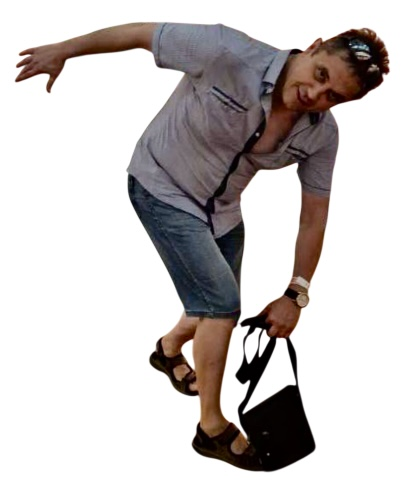
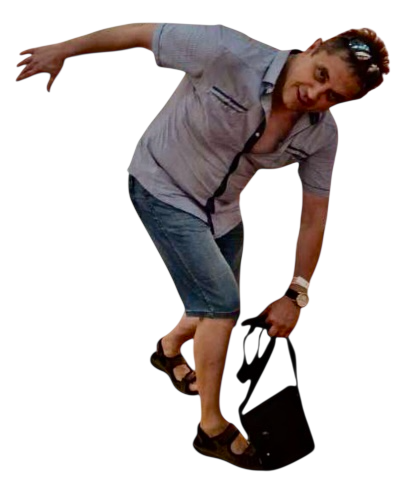
почти все

diff --git a/3ISIP223_Nikolaeva_WPF/Pages/2MainGamePage.xaml b/3ISIP223_Nikolaeva_WPF/Pages/2MainGamePage.xaml
@@ -49,11 +49,11 @@
         <TextBlock x:Name="TxtBlcFloor" Text="Этаж: " Grid.Column="0" Grid.Row="1" FontSize="28"/>
         
         <!--сундук-->
-        <Image x:Name="ImgChest" Grid.Column="1" Grid.Row="1" Grid.RowSpan="2" HorizontalAlignment="Center" 
-               VerticalAlignment="Center" Width="250" Visibility="Hidden"/>
+        <Image x:Name="ImgChest" Grid.Column="1" Grid.Row="1" Grid.RowSpan="2" Source="/Images/Other/chest.png" HorizontalAlignment="Center" 
+               VerticalAlignment="Bottom" Width="350" Visibility="Hidden"/>
         <!--картинка лута из сундука-->
         <Image x:Name="ImgLutfromChest" Grid.Column="1" Grid.Row="1" Grid.RowSpan="2" HorizontalAlignment="Center"
-               VerticalAlignment="Center"  Width="100"/>
+               VerticalAlignment="Bottom"  Width="200"/>
 
         
         <!--мобы и логи-->
@@ -67,10 +67,10 @@
                 ScrollViewer.HorizontalScrollBarVisibility="Auto" ScrollViewer.VerticalScrollBarVisibility="Disabled" d:ItemsSource="{d:SampleData ItemCount=5}" >
                 <ListBox.ItemTemplate>
                     <DataTemplate>
-                        <StackPanel Orientation="Horizontal">
+                        <StackPanel Orientation="Vertical">
                             <StackPanel Orientation="Horizontal">
                                 <Image Source="/Images/Icons/IconHP.png" Width="30"/>
-                                <TextBlock>
+                                <TextBlock FontSize="20">
                                     <TextBlock.Text>
                                         <MultiBinding StringFormat="{}{0}/{1} ХП">
                                             <Binding Path="MaxHP"/>
@@ -79,16 +79,15 @@
                                     </TextBlock.Text>
                                 </TextBlock>
                             </StackPanel>
-                            
                             <StackPanel Orientation="Horizontal">
                                 <Image Source="/Images/Icons/IconATK.png" Width="30"/>
-                                <TextBlock Text="{Binding Attack}"/>
+                                <TextBlock Text="{Binding Attack}" FontSize="20"/>
                             </StackPanel>
                             <StackPanel Orientation="Horizontal">
                                 <Image Source="/Images/Icons/IconDEF.png" Width="30"/>
-                                <TextBlock Text="{Binding Defense}"/>
+                                <TextBlock Text="{Binding Defense}" FontSize="20"/>
                             </StackPanel>
-                            <Image x:Name="ImageCurrentMob" Source="{Binding DefaultImage}" Height="200"/>
+                            <Image x:Name="ImageCurrentMob" Source="{Binding DefaultImage}" Height="350"/>
                         </StackPanel>
                     </DataTemplate>
                 </ListBox.ItemTemplate>

diff --git a/3ISIP223_Nikolaeva_WPF/DictionaryStyle.xaml b/3ISIP223_Nikolaeva_WPF/DictionaryStyle.xaml
@@ -5,12 +5,23 @@
     <Style TargetType="TextBlock">
         <Setter Property="FontFamily" Value="TT_Skip-E 85W"/>
         <Setter Property="Foreground" Value="White"/>
-        
+        <Setter Property="Effect">
+            <Setter.Value>
+                <DropShadowEffect 
+                    Color="Black" 
+                    BlurRadius="2" 
+                    ShadowDepth="3" 
+                    Opacity="0.9" 
+                    Direction="315"/>
+            </Setter.Value>
+        </Setter>
     </Style>
 
     <Style TargetType="ToolTip">
         <Setter Property="Background" Value="#474747"/>
         <Setter Property="FontSize" Value="20"/>
     </Style>
-    
+
+
+
 </ResourceDictionary>

diff --git a/3ISIP223_Nikolaeva_WPF/Pages/2MainGamePage.xaml.cs b/3ISIP223_Nikolaeva_WPF/Pages/2MainGamePage.xaml.cs
@@ -22,6 +22,7 @@ namespace _3ISIP223_Nikolaeva_WPF.Pages
     public partial class _2MainGamePage : Page
     {
         public Game _game;
+        public List<BitmapImage> backgroungimages;
         private bool _waitingForTarget = false;
 
         public _2MainGamePage()
@@ -35,7 +36,7 @@ namespace _3ISIP223_Nikolaeva_WPF.Pages
 
         private void LoadPicture()
         {
-            List<BitmapImage> backgroungimages = new List<BitmapImage>()
+            backgroungimages = new List<BitmapImage>()
             {
                 new BitmapImage(new Uri("pack://application:,,,/Images/Backgrounds/Loca1.jpeg")),
                 new BitmapImage(new Uri("pack://application:,,,/Images/Backgrounds/Loca2.png")),
@@ -43,7 +44,13 @@ namespace _3ISIP223_Nikolaeva_WPF.Pages
                 new BitmapImage(new Uri("pack://application:,,,/Images/Backgrounds/Loca4.jpg")),
                 new BitmapImage(new Uri("pack://application:,,,/Images/Backgrounds/Loca5.jpg"))
             };
+            UpdateBack();
 
+
+        }
+
+        public void UpdateBack()
+        {
             int n = Raaandom.GetRandomInt(0, backgroungimages.Count - 1);
             ImagBr.ImageSource = backgroungimages[n];
         }
@@ -78,6 +85,11 @@ namespace _3ISIP223_Nikolaeva_WPF.Pages
             TxtBlcLogg.Text = message;
         }
 
+        public void SetEnemyImage(string image)
+        {
+
+        }
+
         public void ShowEnemies(List<Enemy> enemies)
         {
             ListMobs.ItemsSource = enemies;
@@ -103,7 +115,7 @@ namespace _3ISIP223_Nikolaeva_WPF.Pages
         {
             _waitingForTarget = true;
             TxtBlcHint.Visibility = Visibility.Visible;
-            TxtBlcHint.Text = "👉 КЛИКНИТЕ ПО ВРАГУ ДЛЯ АТАКИ 👈";
+            TxtBlcHint.Text = "КЛИКНИТЕ ПО ВРАГУ ДЛЯ АТАКИ";
         }
 
         public void CancelTargetSelection()
@@ -132,6 +144,7 @@ namespace _3ISIP223_Nikolaeva_WPF.Pages
                 _game.OnEnemySelected(selected);
                 ListMobs.SelectedItem = null; // Снимаем выделение
             }
+            ListMobs.SelectedIndex = -1;
         }
 
         public class Game
@@ -154,26 +167,26 @@ namespace _3ISIP223_Nikolaeva_WPF.Pages
 
             private List<Item> weapons = new List<Item>
             {
-                new Item("Лампа", 10, 0, "/Images/Weapons/Chashka.png"),
-                new Item("Волчья погибель", 15, 0, "/Images/Weapons/VolchyaPogibel.png"),
-                new Item("Аква Симулякрум", 17, 0, "/Images/Weapons/AquaSimulyacrum.png"),
-                new Item("Нефритовый омут", 15, 3, "/Images/Weapons/Omut.png"),
-                new Item("Рассекающий туман", 20, 10, "/Images/Weapons/RassekaushiTuman.png")
+                new Item("Лампа", 30, 0, "/Images/Weapons/Chashka.png"),
+                new Item("Волчья погибель", 35, 0, "/Images/Weapons/VolchyaPogibel.png"),
+                new Item("Аква Симулякрум", 39, 0, "/Images/Weapons/AquaSimulyacrum.png"),
+                new Item("Нефритовый омут", 44, 3, "/Images/Weapons/Omut.png"),
+                new Item("Рассекающий туман", 50, 10, "/Images/Weapons/RassekaushiTuman.png")
             };
 
             private List<Item> armors = new List<Item>
             {
-                new Item("Кольчуга", 0, 15, "/Images/Armors/kolchuga.png"),
-                new Item("Железная броня", 7, 19, "/Images/Armors/jeleznaya.png"),
-                new Item("Золотая броня", 5, 15, "/Images/Armors/zolotaya.png"),
-                new Item("Алмазная броня", 5, 20, "/Images/Armors/almaznaya.png")
+                new Item("Кольчуга", 0, 30, "/Images/Armors/kolchuga.png"),
+                new Item("Железная броня", 7, 33, "/Images/Armors/jeleznaya.png"),
+                new Item("Золотая броня", 5, 40, "/Images/Armors/zolotaya.png"),
+                new Item("Алмазная броня", 5, 45, "/Images/Armors/almaznaya.png")
             };
 
             public Game(_2MainGamePage page)
             {
                 _page = page;
-                CurrentWeapon = new Item("Дубина переговоров", 7, 0, "/Images/Weapons/dubina.png");
-                CurrentArmor = new Item("Кожанная броня", 0, 1, "/Images/Armors/kojanaya.png");
+                CurrentWeapon = new Item("Дубина переговоров", 20, 0, "/Images/Weapons/dubina.png");
+                CurrentArmor = new Item("Кожанная броня", 0, 20, "/Images/Armors/kojanaya.png");
                 _page.UpdateWeaponImage(CurrentWeapon);
                 _page.UpdateArmorImage(CurrentArmor);
                 _page.UpdateHealth(MaxPlayerHP, PlayerHP);
@@ -184,7 +197,7 @@ namespace _3ISIP223_Nikolaeva_WPF.Pages
                 await NextTurn();
             }
 
-            private async System.Threading.Tasks.Task NextTurn()
+            private async Task NextTurn()
             {
                 if (PlayerHP <= 0)
                 {
@@ -194,6 +207,8 @@ namespace _3ISIP223_Nikolaeva_WPF.Pages
 
                 Turn++;
                 _page.UpdateFloor(Turn);
+                _page.UpdateBack();
+
 
                 if (Turn % 10 == 0)
                 {
@@ -228,7 +243,7 @@ namespace _3ISIP223_Nikolaeva_WPF.Pages
                 Factory selectedFactory = factoryCreate.CreateMob(enemyTypeIndex);
 
                 // Количество врагов от 1 до 3
-                int enemyCount = Raaandom.GetRandomInt(1, 4);
+                int enemyCount = Raaandom.GetRandomInt(1, 3);
 
                 // Создаем врагов одного типа
                 for (int i = 0; i < enemyCount; i++)
@@ -328,8 +343,12 @@ namespace _3ISIP223_Nikolaeva_WPF.Pages
                 {
                     if (PlayerHP <= 0) break;
 
-                    // Меняем картинку на атаку
-                    // _page.SetEnemyImage(enemy.AttackImage);
+                    // Сохраняем старую картинку
+                    string oldImage = enemy.DefaultImage;
+
+                    // Меняем на картинку атаки
+                    enemy.DefaultImage = enemy.AttackImage;
+                    _page.UpdateEnemyList(); // Обновляем отображение
 
                     _page.SetLog($"Ход {enemy.Name}:");
 
@@ -373,13 +392,16 @@ namespace _3ISIP223_Nikolaeva_WPF.Pages
                         }
                     }
 
-                    await System.Threading.Tasks.Task.Delay(500);
+                    await Task.Delay(800);
+
+                    // Возвращаем старую картинку
+                    enemy.DefaultImage = oldImage;
+                    _page.UpdateEnemyList();
+
+                    await Task.Delay(200);
                 }
 
                 _isDefending = false;
-
-                // Возвращаем обычную картинку
-                // foreach (var enemy in _currentEnemies) _page.SetEnemyImage(enemy.DefaultImage);
             }
 
             private async void EndCombat()
@@ -388,13 +410,13 @@ namespace _3ISIP223_Nikolaeva_WPF.Pages
                 _page.EnableCombatMode(false);
                 _page.SetLog("Победа!");
 
-                await System.Threading.Tasks.Task.Delay(1000);
+                await Task.Delay(1000);
 
                 // Продолжаем игру
                 await NextTurn();
             }
 
-            private void OpenChest()
+            private async void OpenChest()
             {
                 _page.SetLog("Вы нашли сундук!");
                 _page.ImgChest.Visibility = Visibility.Visible;
@@ -404,25 +426,40 @@ namespace _3ISIP223_Nikolaeva_WPF.Pages
                 switch (chestContent)
                 {
                     case 0:
+                        await Task.Delay(1000);
+                        _page.ImgLutfromChest.Visibility = Visibility.Visible;
+                        _page.ImgLutfromChest.Source = new BitmapImage(new Uri("/Images/Other/zelie.png", UriKind.Relative));
                         PlayerHP = MaxPlayerHP;
                         _page.UpdateHealth(MaxPlayerHP, PlayerHP);
                         _page.SetLog("Зелье здоровья! HP восстановлено!");
+                        await Task.Delay(1000);
+                        _page.ImgLutfromChest.Visibility = Visibility.Hidden;
                         break;
 
                     case 1:
                         Item newWeapon = weapons[Raaandom.GetRandomInt(0, weapons.Count - 1)];
+                        await Task.Delay(1000);
+                        _page.ImgLutfromChest.Visibility = Visibility.Visible;
+                        _page.ImgLutfromChest.Source = new BitmapImage(new Uri(newWeapon.Image, UriKind.Relative));
                         _page.SetLog($"Найдено оружие: {newWeapon.Name}!");
+                        await Task.Delay(1000);
                         ShowItemChoice(newWeapon, true);
                         return;
 
                     case 2:
                         Item newArmor = armors[Raaandom.GetRandomInt(0, armors.Count - 1)];
+                        await Task.Delay(1000);
+                        _page.ImgLutfromChest.Visibility = Visibility.Visible;
+                        _page.ImgLutfromChest.Source = new BitmapImage(new Uri(newArmor.Image, UriKind.Relative));
                         _page.SetLog($"Найдены доспехи: {newArmor.Name}!");
+                        await Task.Delay(1000);
+
                         ShowItemChoice(newArmor, false);
                         return;
                 }
 
                 _page.ImgChest.Visibility = Visibility.Hidden;
+                _page.ImgLutfromChest.Visibility = Visibility.Hidden;
                 NextTurn();
             }
 
@@ -460,7 +497,8 @@ namespace _3ISIP223_Nikolaeva_WPF.Pages
                 }
 
                 _page.ImgChest.Visibility = Visibility.Hidden;
-                await System.Threading.Tasks.Task.Delay(500);
+                _page.ImgLutfromChest.Visibility = Visibility.Hidden;
+                await Task.Delay(1000);
                 NextTurn();
             }
 
